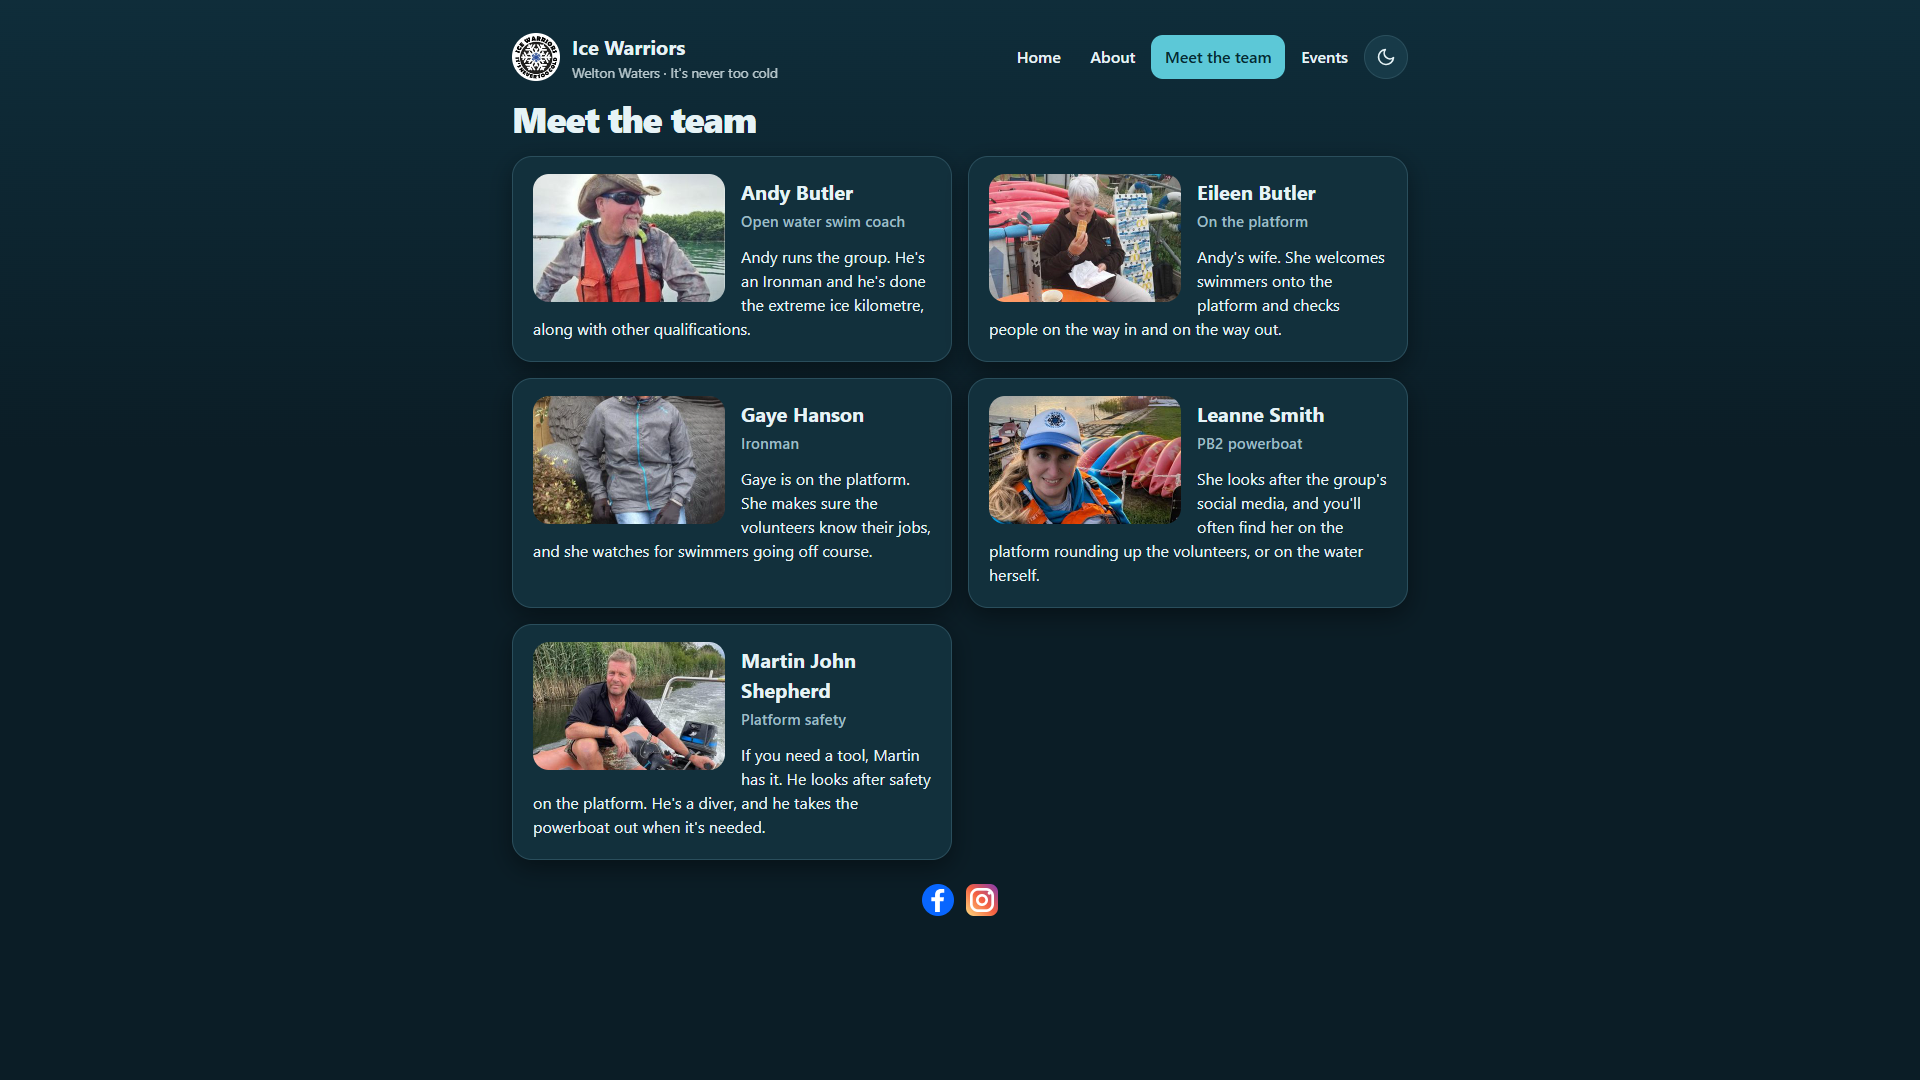
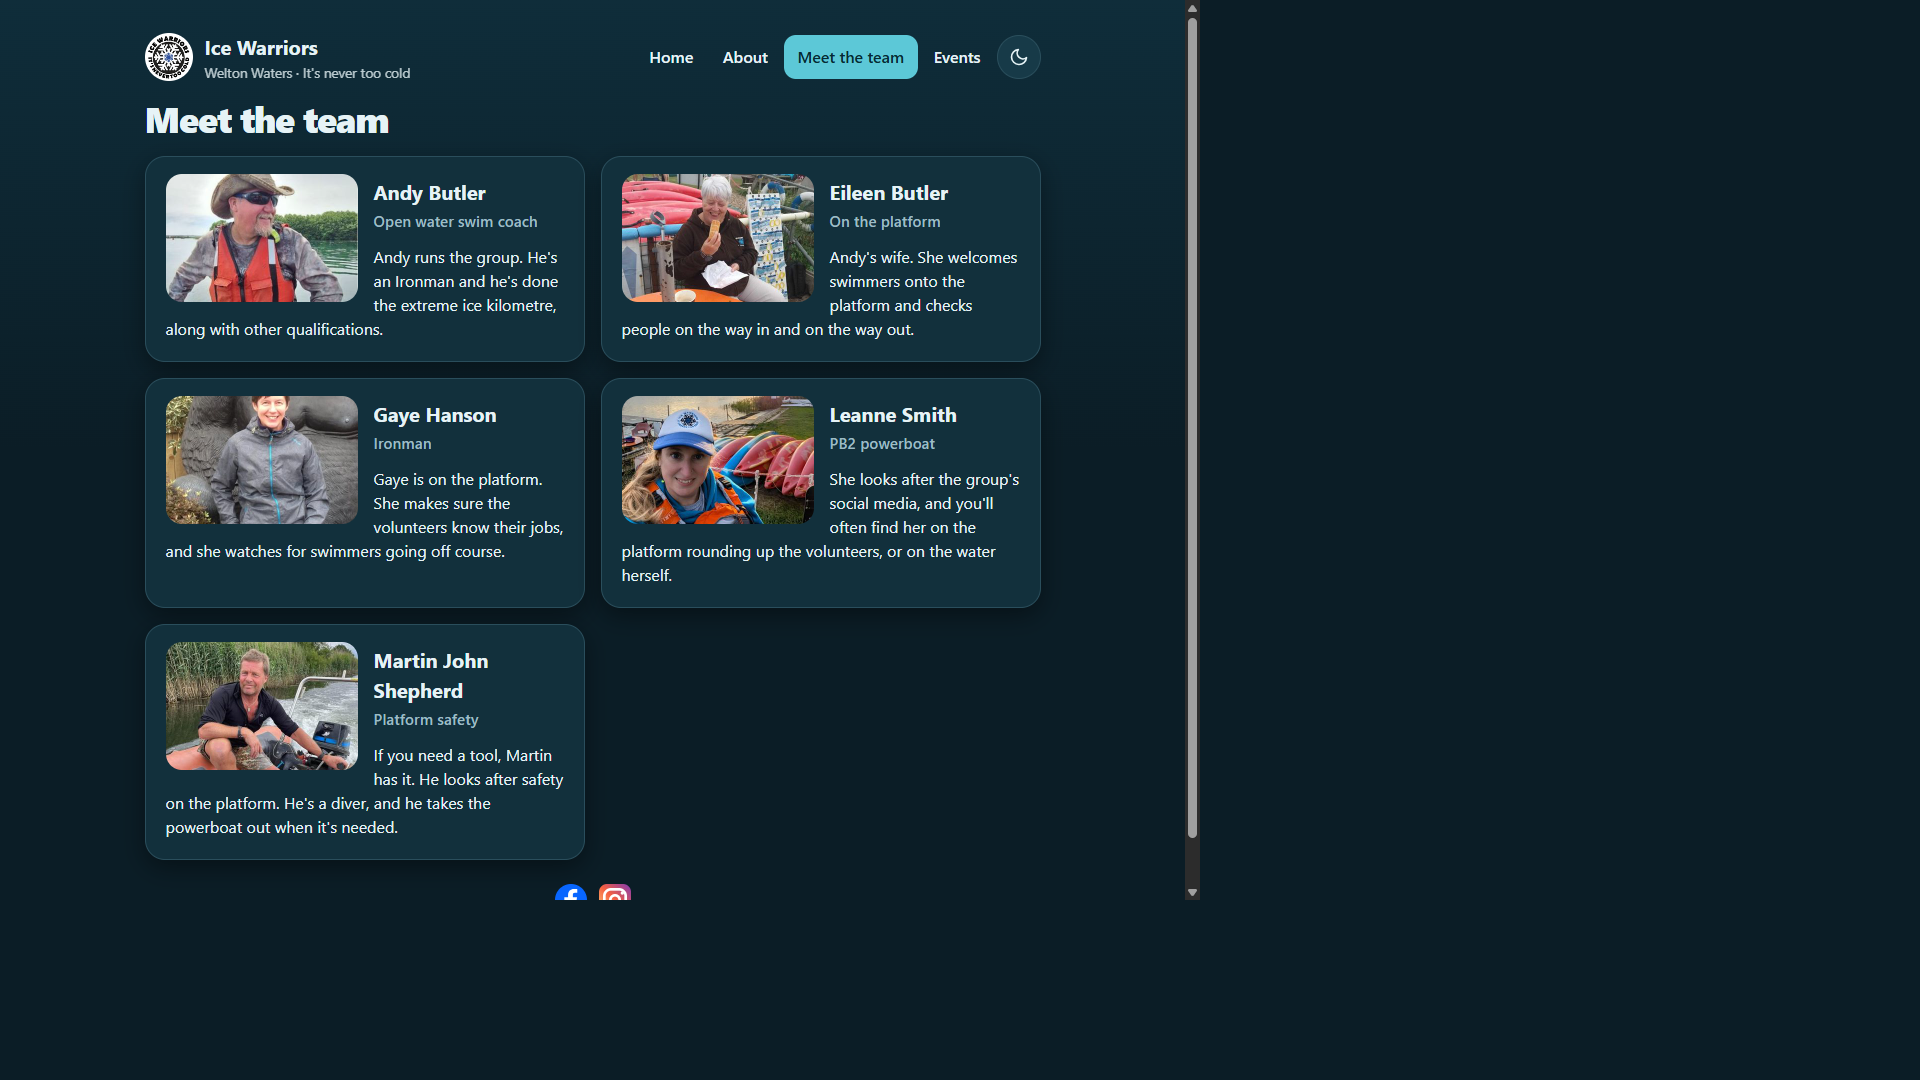
Keep Gaye's face in frame on the desktop team cards.

Changed region(s): [[0.0625, 0.0, 0.75, 0.8556], [0.0625, 0.0306, 0.2188, 0.1222], [0.4688, 0.7944, 0.5312, 0.8556]]

diff --git a/lake-temperature/public/team.html b/lake-temperature/public/team.html
@@ -64,7 +64,7 @@
 					</section>
 
 					<section class="card person">
-						<img src="/images/gaye-hanson.jpg" width="384" height="384" alt="Gaye Hanson smiling in front of a large gorilla statue." />
+						<img class="face-high" src="/images/gaye-hanson.jpg" width="384" height="384" alt="Gaye Hanson smiling in front of a large gorilla statue." />
 						<div class="copy">
 							<h2>Gaye Hanson</h2>
 							<p class="person-role">Ironman</p>
